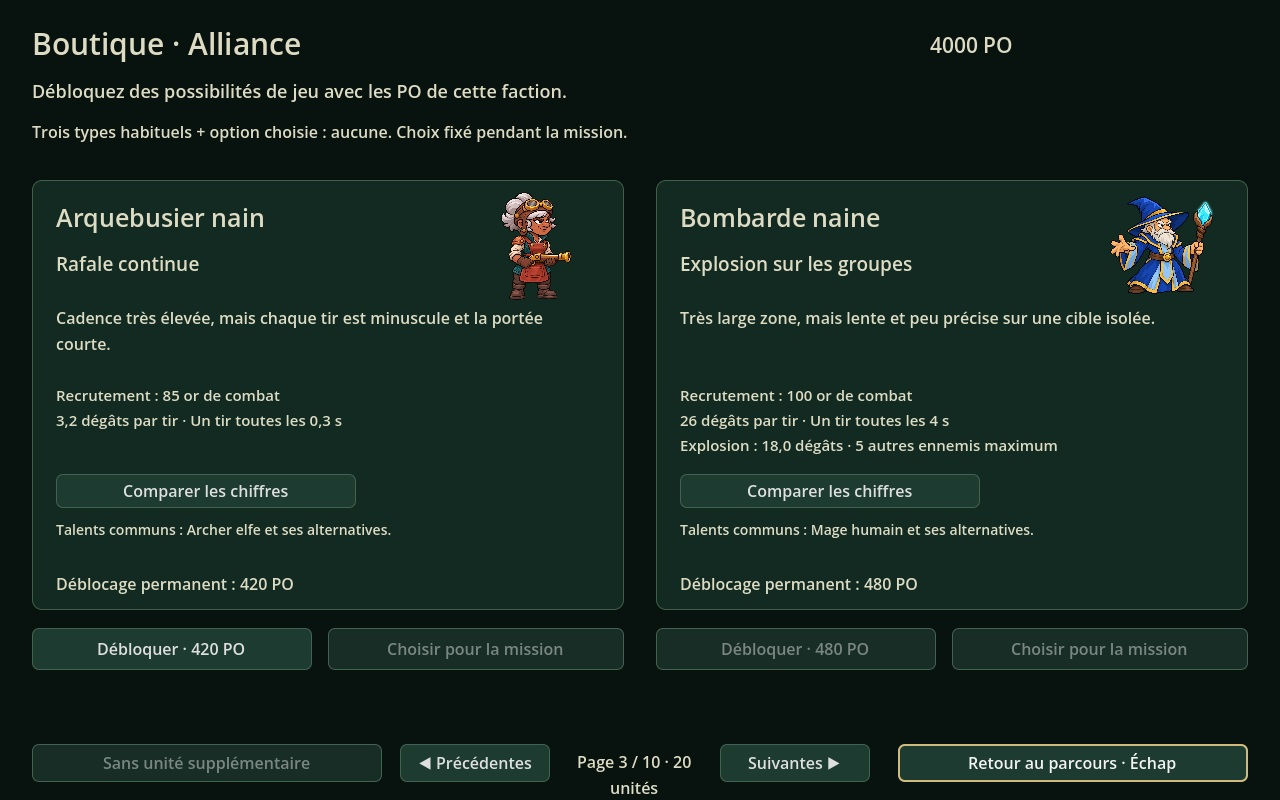
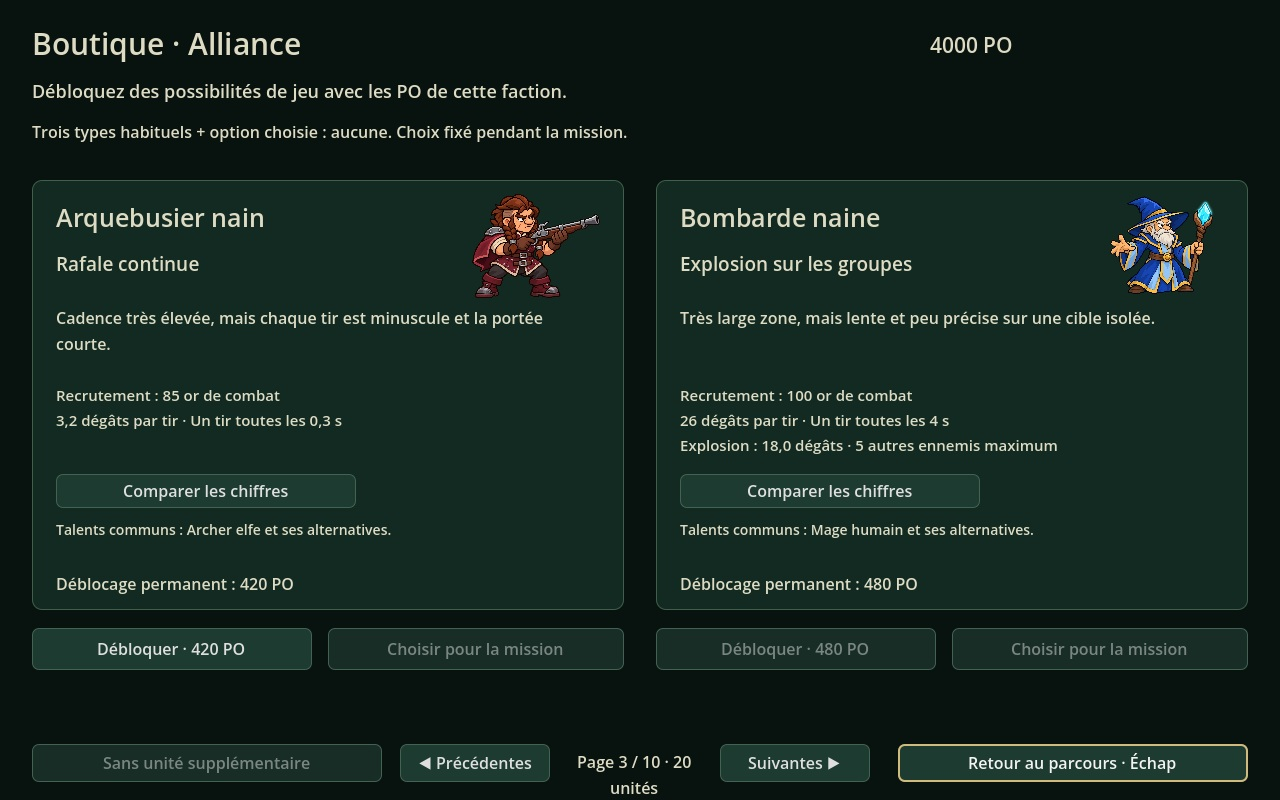
Redesign the dwarf arquebusier from scratch

Changed region(s): [[0.3438, 0.25, 0.4688, 0.375]]

diff --git a/design/Visuels_Boutique_Arquebusiere.md b/design/Visuels_Boutique_Arquebusiere.md
@@ -1,13 +1,13 @@
 # Boutique · Arquebusière naine
 
-Proposition artistique du 14 novembre 2026, en attente d’avis. Le type 12 (`alliance.arquebusier`) utilise actuellement le libellé « Arquebusier nain ». Le visuel propose une naine aux cheveux argentés, à lunettes de cuir, en tablier rouge brique et gilet bleu pétrole. Son arme courte portée à la taille se détache du long mousquet épaulé et de l’arbalète.
+Nouvelle proposition artistique du 14 novembre 2026, en attente d’avis. Le type 12 (`alliance.arquebusier`) utilise actuellement le libellé « Arquebusier nain ». L’arquebusière porte deux tresses châtains, une brigandine framboise et une cape sur une épaule. Elle tient une arquebuse de fer et de bois en diagonale, avec les genoux fléchis.
 
 [Comparaison avec l’arbalétrier et le mousquetaire](essais/boutique_guetteurs/Nains_arbaletrier_mousquetaire_arquebusiere.jpg) · [Carte de boutique en essai](essais/boutique_guetteurs/Boutique_Arquebusiere.jpg)
 
 | Type | Fichier portrait et plateau | Cadre | Pied | Hauteur | Origine du tir |
 | --- | --- | --- | --- | ---: | --- |
-| 12 | `arquebusier_nain_v001.png` | `Rect2(0,0,862,1295)` | `(405,1295)` | 55 | `(19.0,-22.0)` |
+| 12 | `arquebusier_nain_v001.png` | `Rect2(0,0,1209,999)` | `(440,999)` | 55 | `(40.5,-41.25)` |
 
-Les jambes et les avant-bras ont été raccourcis pour retrouver les proportions des nains du jeu. Les épaules restent plus fines que dans le premier dessin et le tablier reste ajusté.
+Les proportions compactes prennent pour référence l’arbalétrier nain. La carrure reste plus fine, avec un buste ajusté et des jambes courtes.
 
 Sur une copie isolée v0.197, le portrait apparaît dans la boutique et l’unité se débloque, se recrute au Gué et tire. Comparaison au même emplacement avec l’arbalétrier de base et le mousquetaire nain. Le contrôle étendu des illustrations donne 45 réussites. Le projectile et le libellé de la copie sont ceux du prototype actuel. À l’intégration, proposer « Arquebusière naine » comme libellé et un rendu de projectile cohérent avec l’illustration.

diff --git a/PASSATION.md b/PASSATION.md
@@ -4,7 +4,7 @@ Mettre ce fichier à jour à chaque fin de mission ou changement d'agent (voir `
 
 ## État au 14 novembre 2026 — Codex
 
-**Arquebusière naine, type 12.** Proportions revues après le retour du porteur, avec des jambes courtes et une carrure affinée. Portrait, recrutement et premier tir vérifiés sur copie v0.197, avec 45 contrôles d’illustrations réussis. Cadre, ancrage et comparatif actualisés. Avis du porteur attendu avant branchement. [Fiche](design/Visuels_Boutique_Arquebusiere.md).
+**Arquebusière naine, type 12.** Nouveau design à la demande du porteur, avec deux tresses, une brigandine framboise et une posture fléchie. Portrait, recrutement et premier tir vérifiés sur copie v0.197, avec 45 contrôles d’illustrations réussis. Cadre, ancrage et comparatif actualisés. Avis du porteur attendu avant branchement. [Fiche](design/Visuels_Boutique_Arquebusiere.md).
 
 **Veilleur des cendres, type 16.** Le porteur a validé le portrait au guet et la pose de plateau accroupie (`8f328e0`, 14 novembre 2026). Copie v0.197 : rendu en boutique contrôlé, 40 contrôles d’illustrations réussis et six passages jusqu’au premier tir. Les deux poses sont prêtes à brancher. [Comparatif](design/essais/boutique_guetteurs/Troll_haches_javelinier_veilleur.jpg).
 

diff --git a/ECHANGES_CODEX_VERS_CLAUDE.md b/ECHANGES_CODEX_VERS_CLAUDE.md
@@ -8,7 +8,7 @@ Format d'une entrée : `### AAAA-MM-JJ — Titre (ouvert)` puis le contenu : fic
 
 ### 2026-11-14 — Arquebusière naine proposée (ouvert)
 
-Le PNG du type 12 a été redessiné avec des proportions plus compactes et une carrure affinée. Il attend l’avis du porteur. La [fiche](design/Visuels_Boutique_Arquebusiere.md) donne le cadre, l’ancre et l’origine du tir actualisés. Le portrait et le sprite partagent ce PNG. Une fois validé, harmoniser le libellé avec le personnage proposé et associer un rendu de tir approprié à l’illustration.
+Le type 12 a un nouveau design à la demande du porteur et attend son avis. La [fiche](design/Visuels_Boutique_Arquebusiere.md) donne le cadre, l’ancre et l’origine du tir actualisés. Le portrait et le sprite partagent ce PNG. Une fois validé, harmoniser le libellé avec le personnage proposé et associer un rendu de tir approprié à l’illustration.
 
 ### 2026-11-14 — Veilleur des cendres validé, à intégrer (ouvert)
 
